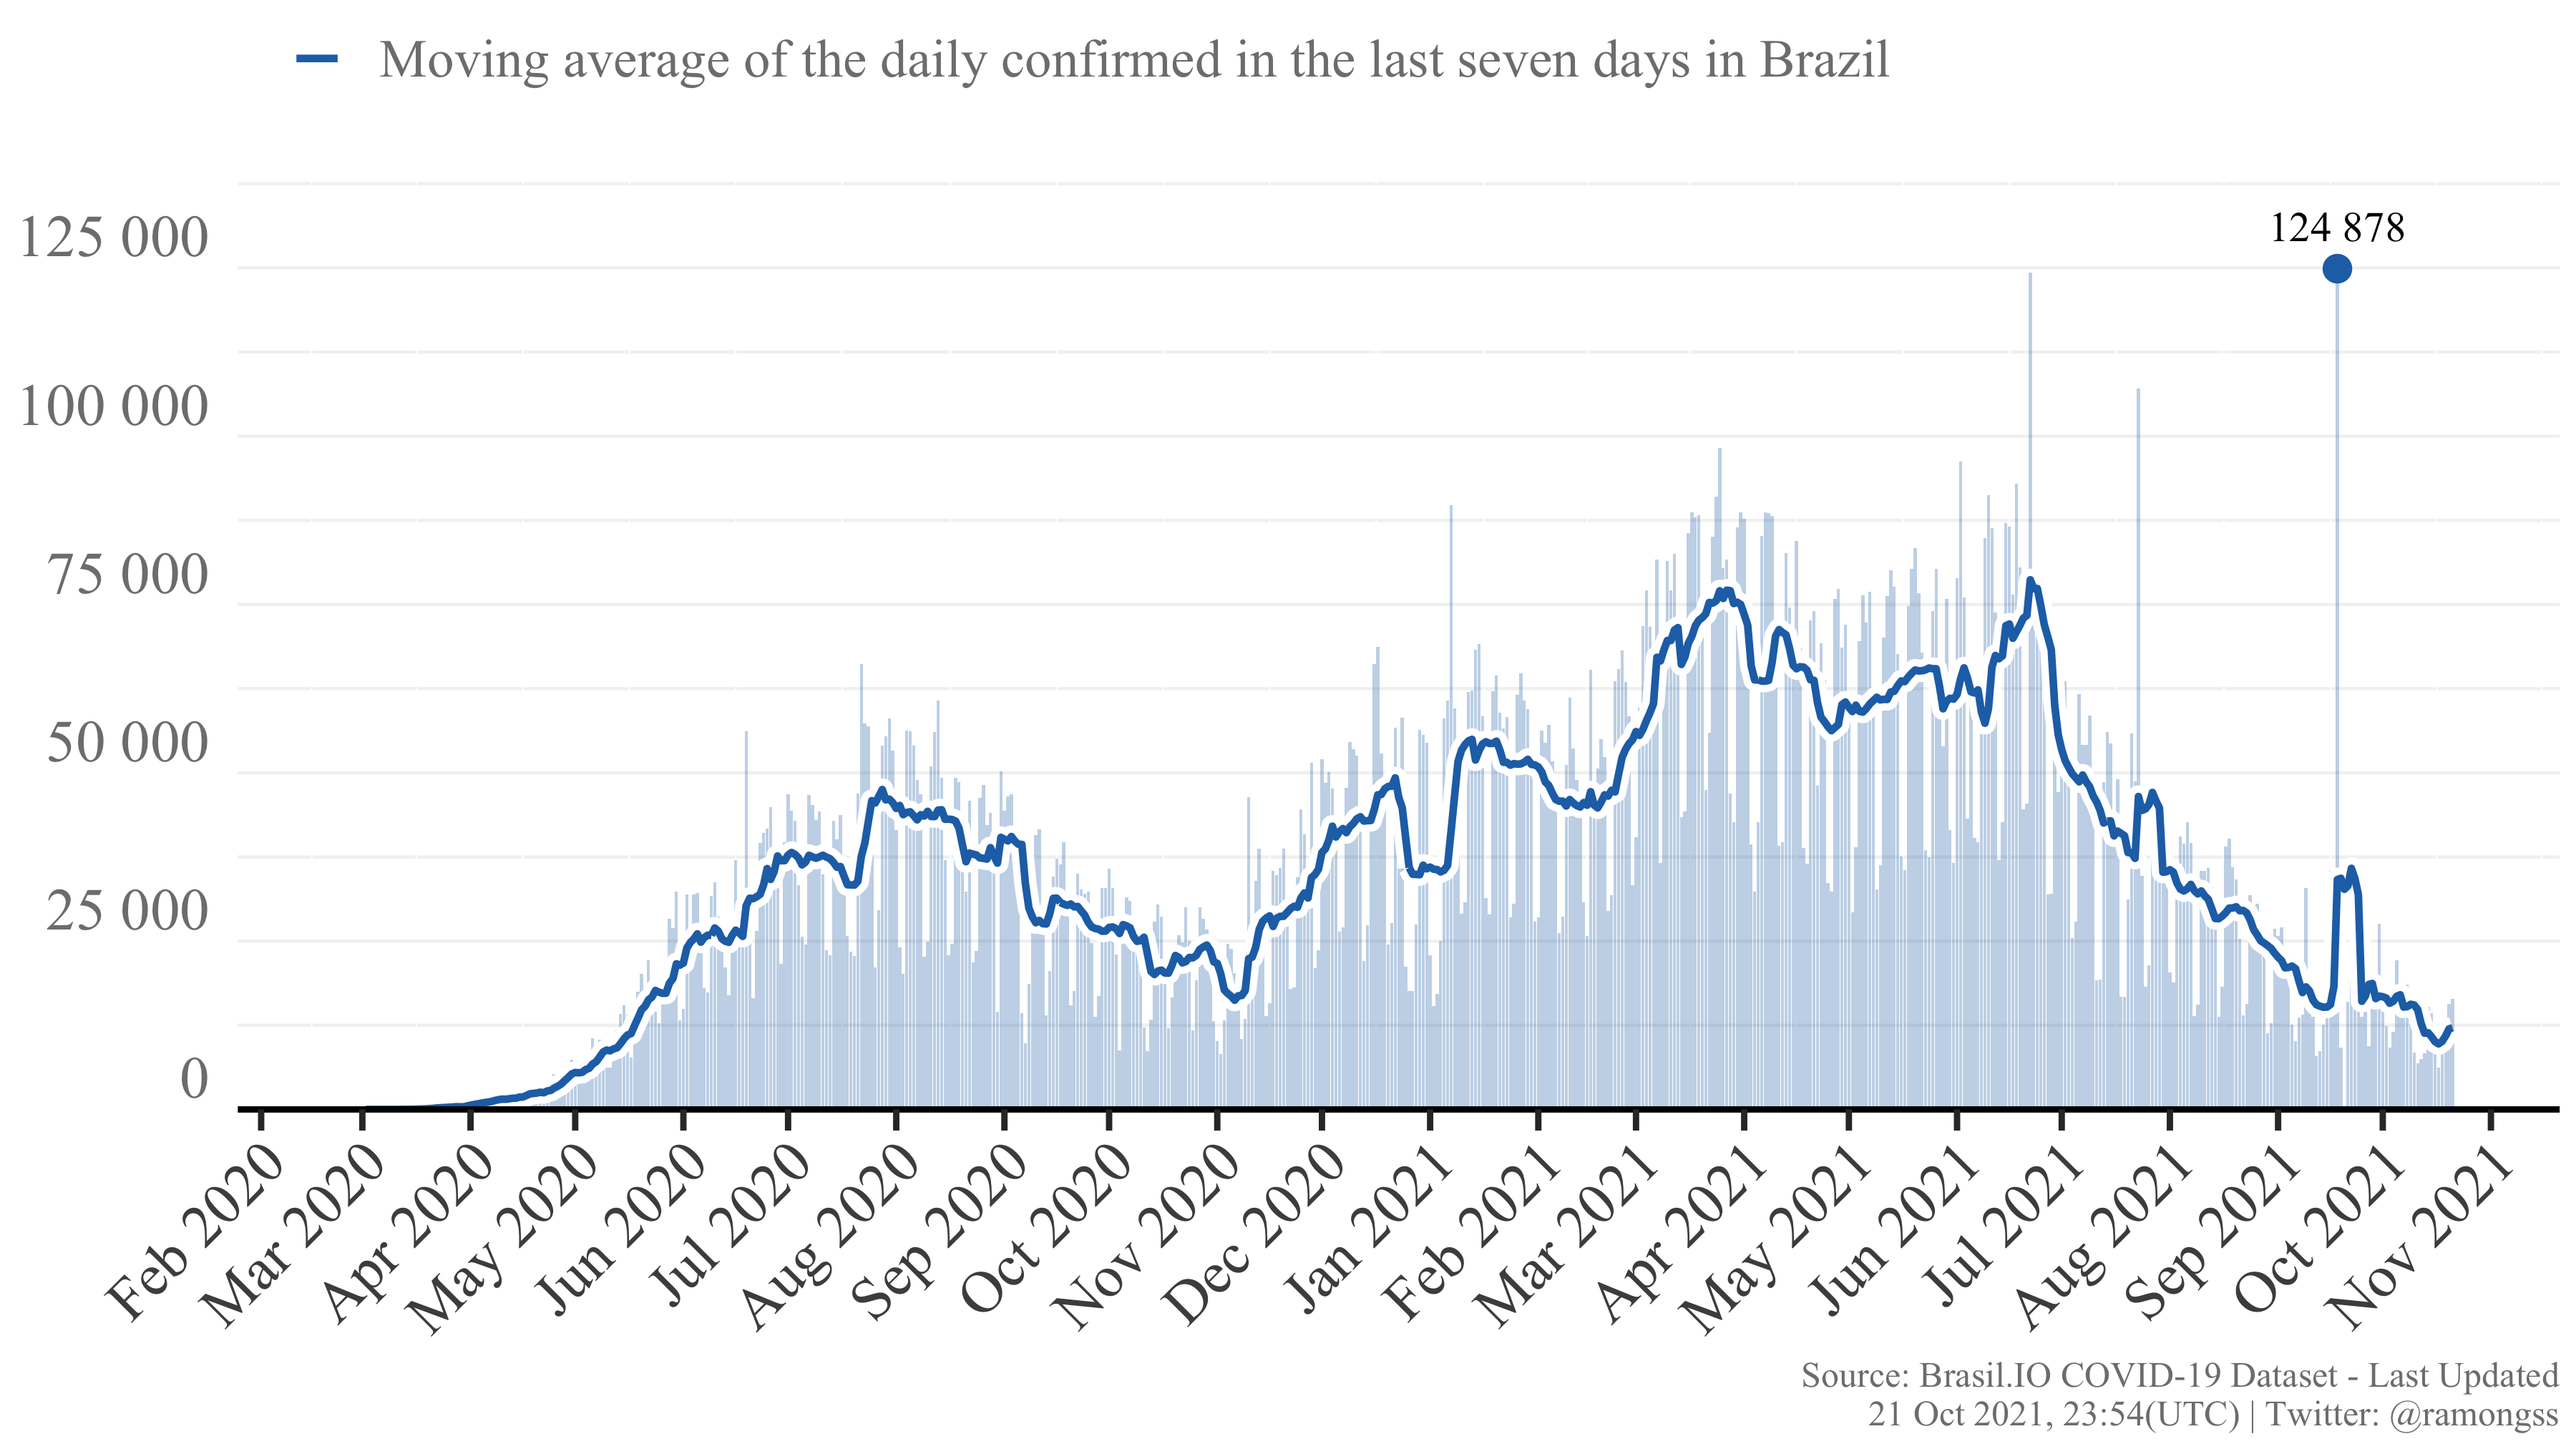
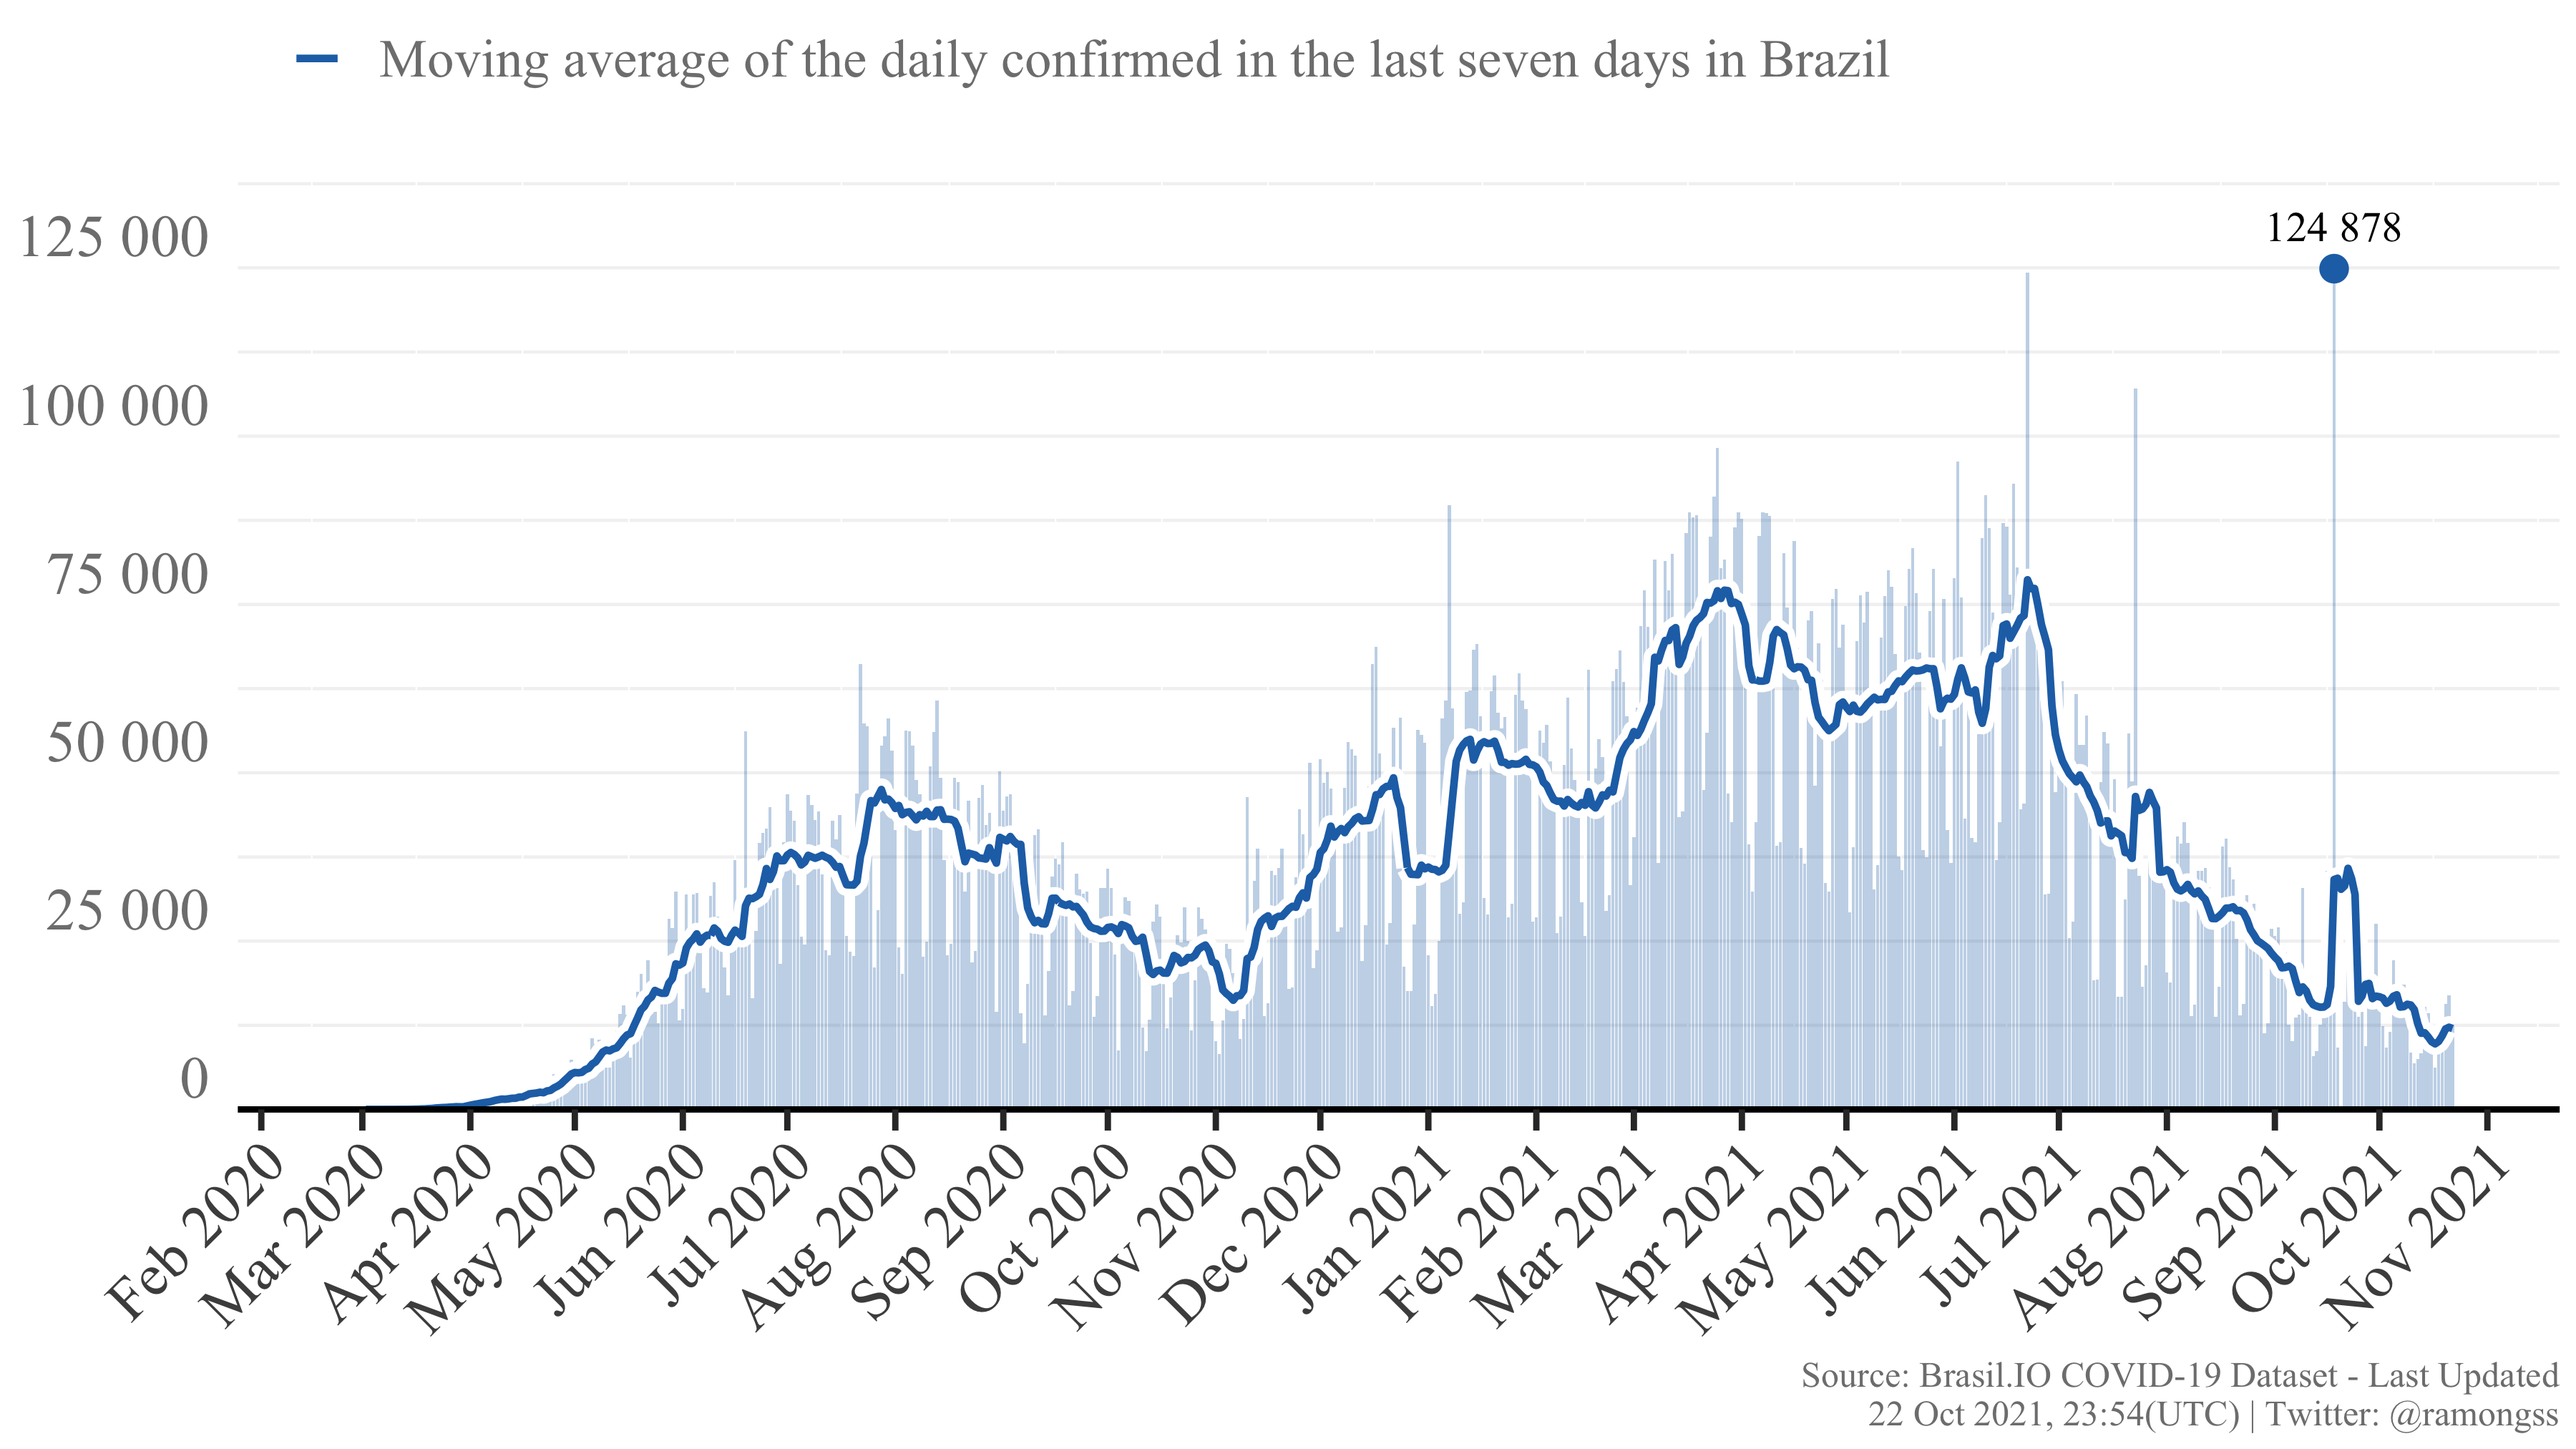
Re-build README.Rmd

diff --git a/README.md b/README.md
@@ -27,8 +27,8 @@ download_brasilio_table <- function(dataset = "covid19", table_name){
 
 ## COVID-19 Confirmed cases
 
-Currently, Brazil has a total of **21,703,416** confirmed cases at **21
-Oct, 2021**, with **16,422** new confirmed cases. The daily maximum
+Currently, Brazil has a total of **21,716,939** confirmed cases at **22
+Oct, 2021**, with **13,006** new confirmed cases. The daily maximum
 incidence was **124,878** confirmed cases at **18 Sep, 2021**. Here
 follows the Figure showing the confirmed case incidence as the bars, and
 the line as the moving average of the last 7 days.
@@ -37,8 +37,8 @@ the line as the moving average of the last 7 days.
 
 ## COVID-19 Deaths
 
-Currently, Brazil has a total of **604,981** deaths at **21 Oct, 2021**,
-with **456** new deaths. The daily maximum deaths incidence was
+Currently, Brazil has a total of **605,427** deaths at **22 Oct, 2021**,
+with **436** new deaths. The daily maximum deaths incidence was
 **4,148** deaths at **08 Apr, 2021**. Here follows the Figure showing
 the deaths incidence as the bars, and the line as the moving average of
 the last 7 days.
@@ -49,4 +49,4 @@ the last 7 days.
 
 This page is daily updated automatically using Github Actions.
 
-*Last update: 21 Oct 2021, 23:54 (UTC).*
+*Last update: 22 Oct 2021, 23:54 (UTC).*
